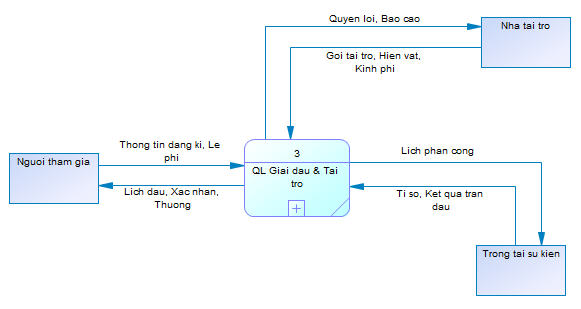
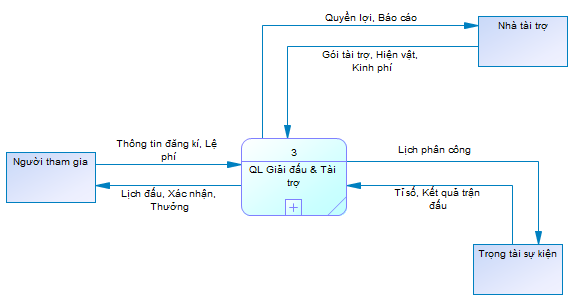
Update: resolve comment

Changed region(s): [[0.0, 0.0299, 1.0, 0.9867]]

diff --git a/dacta.md b/dacta.md
@@ -106,8 +106,8 @@ Trả lời: Hệ thống tự động tổng kết bảng xếp hạng chung cu
 ![DFD Mức 1 - Giải đấu và Tài trợ](./images/DFD_muc1.png)
 
 #### Mô hình mức dưới đỉnh (Level 2)
-![DFD Mức 2 - Quản lí Đăng kí & Điểm danh](./images/DFD_muc2_1.png)
-![DFD Mức 2 - Quản lí Tài trợ sự kiện](./images/DFD_muc2_2.png)
-![DFD Mức 2 - Xếp lịch & Vận hành thi đấu](./images/DFD_muc2_3.png)
-![DFD Mức 2 - Tổng kết và trao thưởng](./images/DFD_muc2_4.png)
+![DFD Mức 2 - Quản lí Đăng kí & Điểm danh](./images/DFD_muc2_DangKy_DiemDanh.png)
+![DFD Mức 2 - Quản lí Tài trợ sự kiện](./images/DFD_muc2_TaiTroSK.png)
+![DFD Mức 2 - Xếp lịch & Vận hành thi đấu](./images/DFD_muc2_XepLich_VanHanh.png)
+![DFD Mức 2 - Tổng kết và trao thưởng](./images/DFD_muc2_TongKet_TraoThuong.png)
 ---
